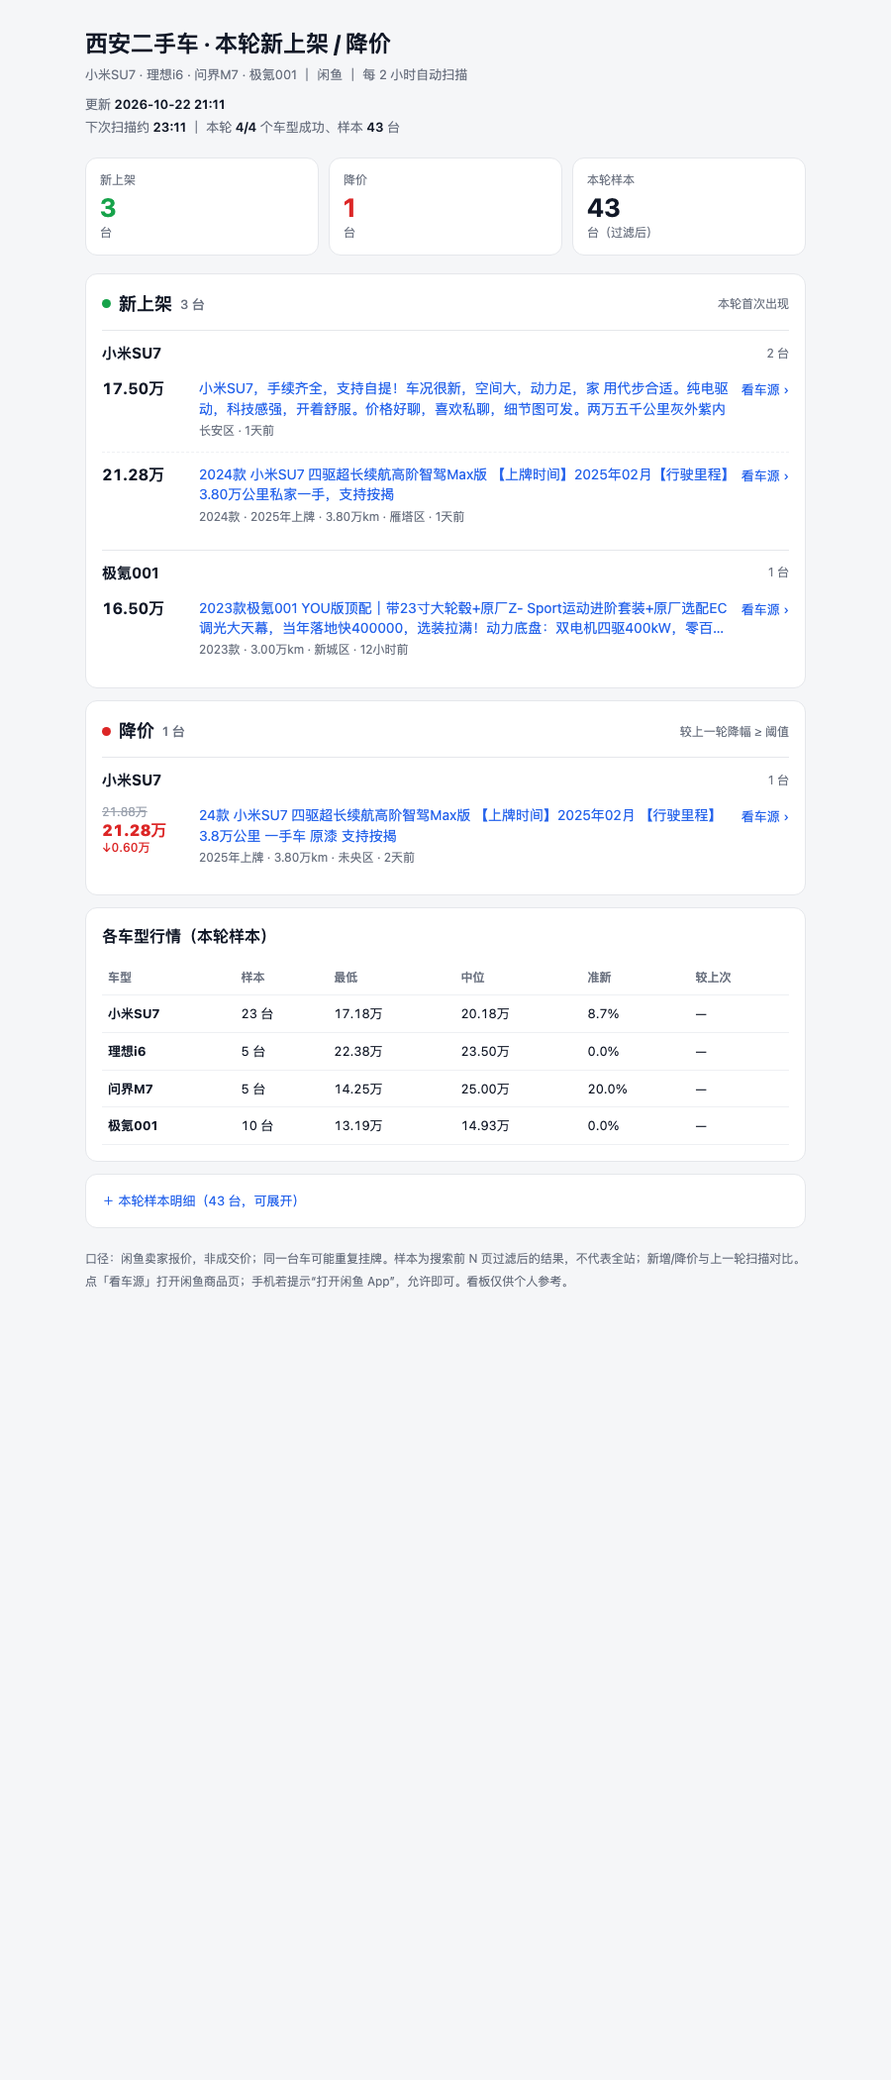
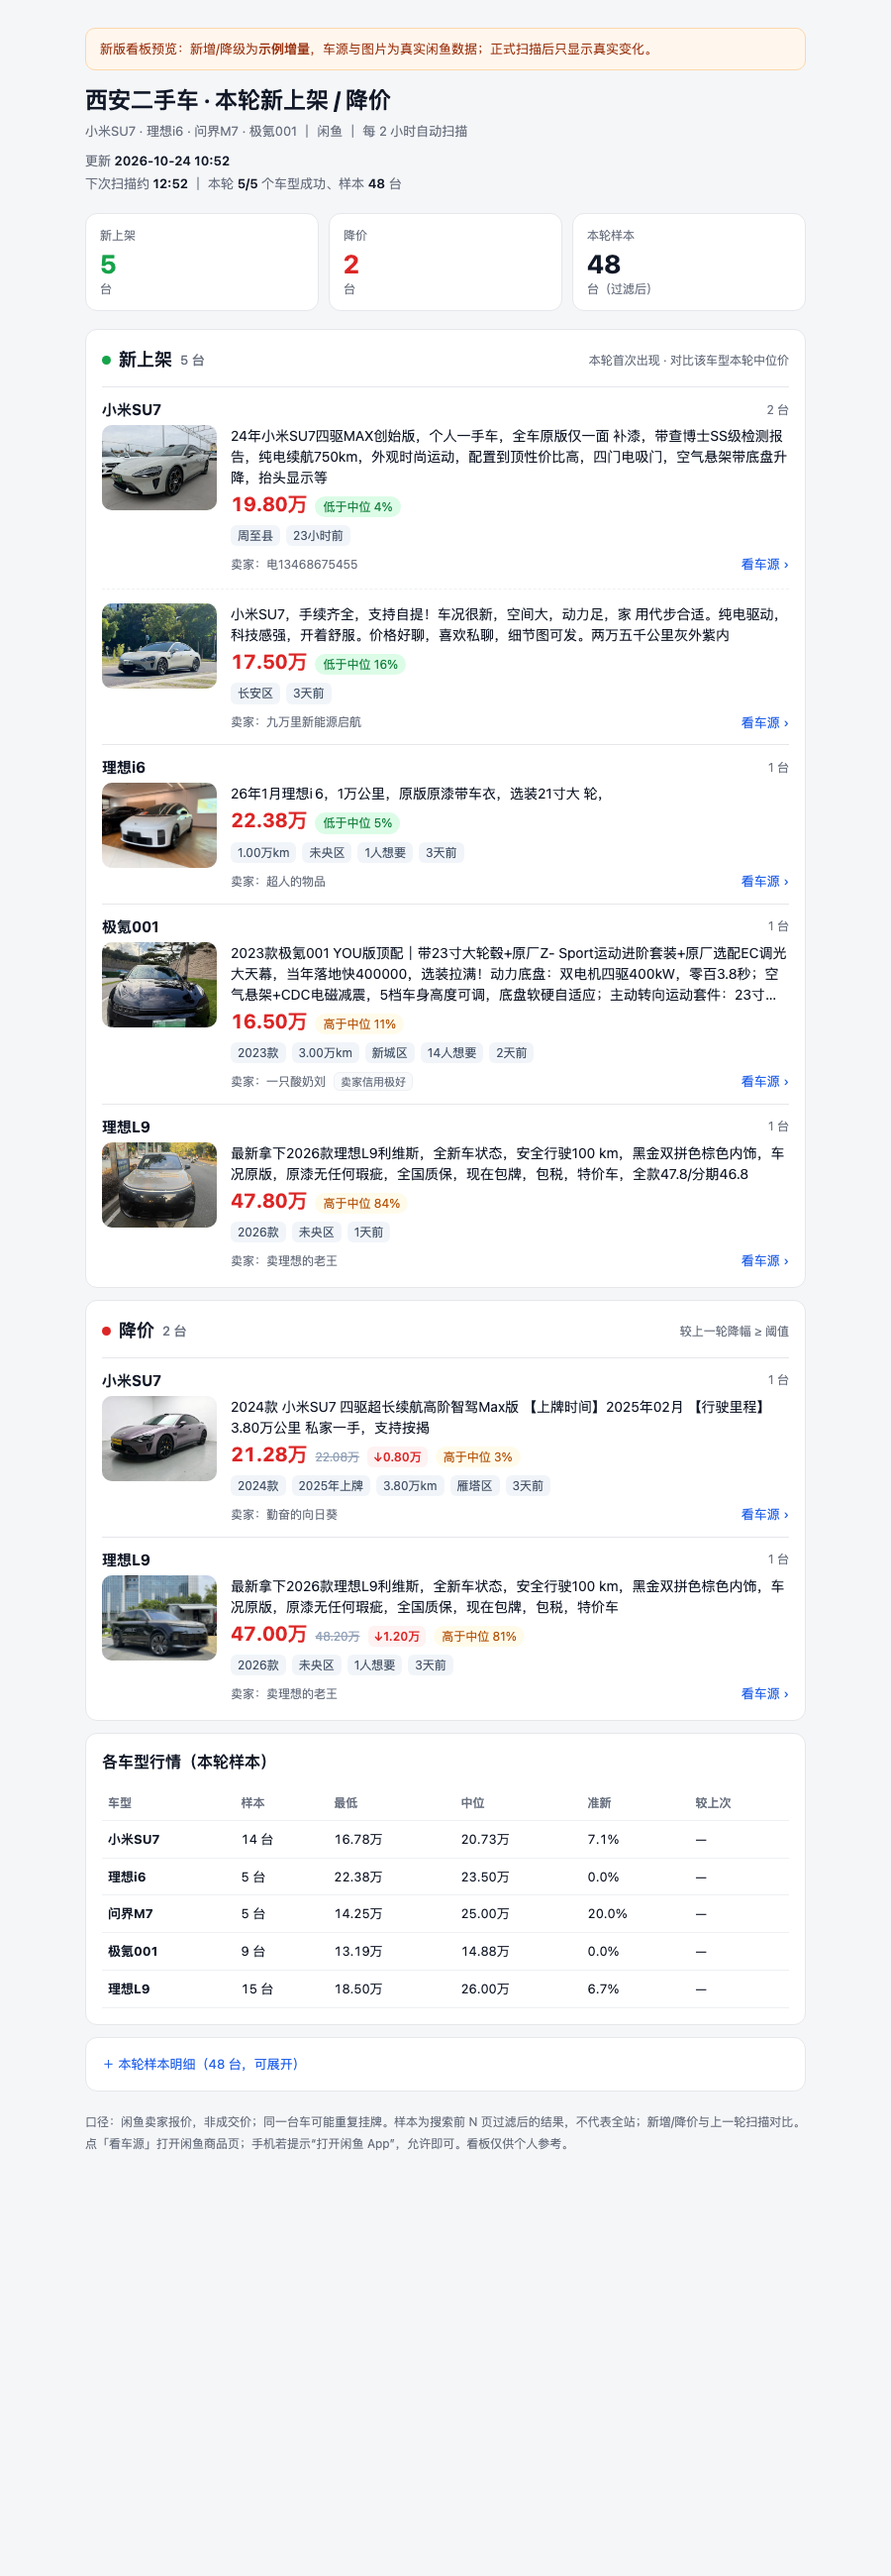
feat: richer vehicle cards + stable dashboard link options (v0.4.0)
- 车源卡片：缩略图、价格与样本中位对比（低于绿色/高于琥珀）、年款/上牌/里程/地区/想要数/发布时间、卖家、标签，点标题或看车源跳闲鱼
- 图片统一转 https，修复看板走 HTTPS 时混合内容导致图片不显示
- 新增 dashboard.publicUrl + tunnelToken：支持 Cloudflare 命名隧道固定地址，或 Tailscale 私有固定地址；未配置时仍用 quick tunnel
- 机器人「看板」区分固定/临时地址
- 测试 23 项离线通过；版本 0.4.0

diff --git a/src/html-report.js b/src/html-report.js
@@ -72,39 +72,52 @@ function relTime(ms, nowMs) {
   return `${Math.round(diff / day)}天前`
 }
 
-function listingMeta(l, now) {
-  return [
+function priceCompare(price, median) {
+  if (!Number.isFinite(Number(price)) || !Number.isFinite(Number(median)) || !median) return ''
+  const diff = (Number(price) - Number(median)) / Number(median)
+  const pct = Math.abs(diff * 100)
+  if (pct < 2) return '<span class="cmp">≈ 样本中位</span>'
+  return `<span class="cmp ${diff < 0 ? 'good' : 'high'}">${diff < 0 ? '低于' : '高于'}中位 ${pct.toFixed(0)}%</span>`
+}
+
+/** 一条车源卡片：缩略图 + 标题 + 价格/对比 + 关键参数 + 卖家/标签 + 跳转。 */
+function carCard({ listing, now, median, kind, oldPrice }) {
+  const l = listing ?? {}
+  const url = safeUrl(l.detailUrl)
+  const price = Number(l.priceYuan)
+  const cut = kind === 'drop' && Number.isFinite(Number(oldPrice)) && Number.isFinite(price)
+    ? Number(oldPrice) - price
+    : null
+  const chips = [
     l.modelYear ? `${l.modelYear}款` : null,
     l.licenseYear ? `${l.licenseYear}年上牌` : null,
     kmText(l.mileageKm) || null,
     l.area || null,
+    l.wantCount != null ? `${l.wantCount}人想要` : null,
     relTime(l.publishTime, now) || null,
-  ].filter(Boolean).join(' · ')
-}
-
-function newItem(l, now) {
-  return `<li class="item">
-    <div class="item-price">${wan(l.priceYuan)}</div>
-    <div class="item-main">
-      <a class="item-title" href="${safeUrl(l.detailUrl)}" target="_blank" rel="noopener">${esc(l.title)}</a>
-      <div class="item-meta">${esc(listingMeta(l, now))}</div>
+  ].filter(Boolean)
+  const tags = (l.tags ?? [])
+    .filter((t) => !/(想要|小时前|天前|分钟前|上新|发布)/.test(String(t)))
+    .slice(0, 4)
+  const thumb = l.pictureUrl
+    ? `<a class="thumb" href="${url}" target="_blank" rel="noopener"><img src="${esc(l.pictureUrl)}" loading="lazy" referrerpolicy="no-referrer" alt="" onerror="this.parentNode.classList.add('noimg')"></a>`
+    : '<div class="thumb noimg"></div>'
+  return `<li class="car">
+    ${thumb}
+    <div class="car-body">
+      <a class="car-title" href="${url}" target="_blank" rel="noopener" title="${esc(l.title)}">${esc(l.title)}</a>
+      <div class="car-price">
+        <b>${wan(price)}</b>
+        ${kind === 'drop' && cut ? `<span class="old">${wan(oldPrice)}</span><span class="cut">↓${wan(cut)}</span>` : ''}
+        ${priceCompare(price, median)}
+      </div>
+      <div class="chips">${chips.map((c) => `<span>${esc(c)}</span>`).join('')}</div>
+      <div class="car-foot">
+        <span class="seller">${l.seller ? `卖家：${esc(l.seller)}` : ''}</span>
+        <span class="tags">${tags.map((t) => `<span class="tag">${esc(t)}</span>`).join('')}</span>
+        <a class="car-link" href="${url}" target="_blank" rel="noopener">看车源 ›</a>
+      </div>
     </div>
-    <a class="item-link" href="${safeUrl(l.detailUrl)}" target="_blank" rel="noopener">看车源 ›</a>
-  </li>`
-}
-
-function dropItem(d, now) {
-  const l = d.listing ?? {}
-  const oldPrice = Number(d.oldPrice)
-  const newPrice = Number(d.newPrice ?? l.priceYuan)
-  const cut = Number.isFinite(oldPrice) && Number.isFinite(newPrice) ? oldPrice - newPrice : null
-  return `<li class="item">
-    <div class="item-price"><span class="old">${wan(oldPrice)}</span><b class="cut">${wan(newPrice)}</b>${cut ? `<div class="cut-tag">↓${wan(cut)}</div>` : ''}</div>
-    <div class="item-main">
-      <a class="item-title" href="${safeUrl(l.detailUrl)}" target="_blank" rel="noopener">${esc(l.title)}</a>
-      <div class="item-meta">${esc(listingMeta(l, now))}</div>
-    </div>
-    <a class="item-link" href="${safeUrl(l.detailUrl)}" target="_blank" rel="noopener">看车源 ›</a>
   </li>`
 }
 
@@ -117,19 +130,25 @@ function modelGroup(title, items) {
 
 function newSection(targets, now) {
   const groups = targets
-    .map((t) => ({ t, items: (t.newListings ?? []).map((l) => newItem(l, now)) }))
+    .map((t) => ({
+      t,
+      items: (t.newListings ?? []).map((l) => carCard({ listing: l, now, median: t.price?.median, kind: 'new' })),
+    }))
     .filter((g) => g.items.length)
   const total = groups.reduce((n, g) => n + g.items.length, 0)
   if (!total) return ''
   return `<section class="card">
-    <div class="section-head"><h2><span class="dot green"></span>新上架 <em>${total} 台</em></h2><span class="hint">本轮首次出现</span></div>
+    <div class="section-head"><h2><span class="dot green"></span>新上架 <em>${total} 台</em></h2><span class="hint">本轮首次出现 · 对比该车型本轮中位价</span></div>
     ${groups.map((g) => modelGroup(g.t.seriesName, g.items)).join('')}
   </section>`
 }
 
 function dropSection(targets, now) {
   const groups = targets
-    .map((t) => ({ t, items: (t.priceDrops ?? []).map((d) => dropItem(d, now)) }))
+    .map((t) => ({
+      t,
+      items: (t.priceDrops ?? []).map((d) => carCard({ listing: d.listing, now, median: t.price?.median, kind: 'drop', oldPrice: d.oldPrice })),
+    }))
     .filter((g) => g.items.length)
   const total = groups.reduce((n, g) => n + g.items.length, 0)
   if (!total) return ''
@@ -229,15 +248,29 @@ a:hover{text-decoration:underline}
 .group-head .model{font-weight:700;font-size:15px}
 .group-head .group-count{color:var(--muted);font-size:12px}
 .items{list-style:none;margin:0;padding:0}
-.item{display:grid;grid-template-columns:86px 1fr auto;gap:12px;align-items:start;padding:12px 0;border-top:1px dashed #eef0f3}
-.item:first-child{border-top:0}
-.item-price{font-size:16px;font-weight:700;line-height:1.35;font-variant-numeric:tabular-nums;white-space:nowrap}
-.item-price .old{display:block;color:#9ca3af;font-size:12px;font-weight:400;text-decoration:line-through;line-height:1.2}
-.item-price .cut{color:var(--red);display:block}
-.cut-tag{color:var(--red);font-size:12px;font-weight:500;line-height:1.2}
-.item-title{word-break:break-word;display:-webkit-box;-webkit-line-clamp:2;-webkit-box-orient:vertical;overflow:hidden;font-size:14px;line-height:1.45}
-.item-meta{color:var(--muted);font-size:12px;margin-top:2px}
-.item-link{color:var(--blue);font-size:13px;white-space:nowrap;padding-top:1px}
+.items{list-style:none;margin:0;padding:0;display:flex;flex-direction:column;gap:14px}
+.car{display:grid;grid-template-columns:116px minmax(0,1fr);gap:14px;padding-top:14px;border-top:1px dashed #eef0f3}
+.car:first-child{border-top:0;padding-top:2px}
+.thumb{display:block;width:116px;height:86px;border-radius:10px;overflow:hidden;background:#f1f5f9;position:relative;flex:none}
+.thumb img{width:100%;height:100%;object-fit:cover;display:block}
+.thumb.noimg{background:linear-gradient(135deg,#eef2ff,#f8fafc)}
+.thumb.noimg:after{content:"闲鱼车源";position:absolute;inset:0;display:flex;align-items:center;justify-content:center;color:#94a3b8;font-size:12px}
+.car-body{min-width:0}
+.car-title{display:-webkit-box;-webkit-line-clamp:3;-webkit-box-orient:vertical;overflow:hidden;font-size:14px;line-height:1.5;color:var(--ink);word-break:break-word}
+.car-price{display:flex;align-items:baseline;gap:8px;margin-top:5px;flex-wrap:wrap}
+.car-price b{font-size:20px;color:var(--red);font-variant-numeric:tabular-nums;line-height:1.2}
+.car-price .old{color:#94a3b8;text-decoration:line-through;font-size:12px}
+.car-price .cut{background:#fef2f2;color:var(--red);border-radius:6px;padding:1px 6px;font-size:12px;font-weight:600}
+.cmp{font-size:12px;color:#15803d;background:#f0fdf4;border-radius:999px;padding:1px 8px}
+.cmp.good{color:#15803d;background:#dcfce7}
+.cmp.high{color:#b45309;background:#fffbeb}
+.chips{display:flex;flex-wrap:wrap;gap:6px;margin-top:8px}
+.chips span{font-size:12px;background:#f1f5f9;color:#475569;border-radius:6px;padding:1px 7px;white-space:nowrap}
+.car-foot{display:flex;align-items:center;gap:8px;margin-top:8px;flex-wrap:wrap}
+.seller{font-size:12px;color:var(--muted)}
+.tags{display:flex;gap:4px;flex-wrap:wrap}
+.tag{display:inline-block;font-size:11px;color:var(--muted);background:#f8fafc;border:1px solid #eef0f3;border-radius:6px;padding:0 6px;white-space:nowrap}
+.car-link{margin-left:auto;font-size:13px;color:var(--blue);white-space:nowrap}
 .empty{text-align:center;padding:28px 18px}
 .empty-icon{width:40px;height:40px;line-height:40px;border-radius:50%;background:#f0fdf4;color:var(--green);font-size:20px;margin:0 auto 10px}
 .empty h2{margin:0 0 6px;font-size:17px}
@@ -267,10 +300,12 @@ td.num{white-space:nowrap;font-variant-numeric:tabular-nums}
   .kpis{gap:8px}
   .kpi{padding:10px 12px}
   .kpi .v{font-size:22px}
-  .item{grid-template-columns:minmax(0,78px) minmax(0,1fr);gap:10px}
+  .car{grid-template-columns:92px minmax(0,1fr);gap:10px}
+  .thumb{width:92px;height:70px}
+  .car-price b{font-size:18px}
+  .car-link{margin-left:0;padding-top:2px}
   .stats{font-size:12px}
   .stats th,.stats td{padding:7px 4px}
-  .item-link{grid-column:2;padding-top:2px}
   .card{padding:14px}
 }
 @media print{body{background:#fff}.details{display:none}}

diff --git a/index.js b/index.js
@@ -15,7 +15,7 @@ import { createCommandHandler } from './src/commands.js'
 import { createLlmAnalyzer } from './src/llm-analyzer.js'
 import { REPORT_NAME } from './src/html-report.js'
 import { dashboardUrls, startDashboardServer } from './src/dashboard-server.js'
-import { startQuickTunnel } from './src/dashboard-tunnel.js'
+import { startNamedTunnel, startQuickTunnel } from './src/dashboard-tunnel.js'
 
 export const name = 'vehicle-watch'
 export const inject = ['tools', 'timer']
@@ -58,6 +58,8 @@ export const Config = z.object({
   dashboard: z.object({
     enabled: z.boolean().default(true),
     public: z.boolean().default(true),   // 启动 Cloudflare 快速隧道，户外手机可看
+    publicUrl: z.string().default(''),   // 固定公网地址（命名隧道/反向代理/Tailscale 时填写）
+    tunnelToken: z.string().default(''), // Cloudflare 命名隧道 token（可让地址固定）
     tunnelCommand: z.string().default(''), // cloudflared 路径；空 = 自动查找
     port: z.natural().default(47800),
     host: z.string().default(''),        // 空 = 0.0.0.0（同一局域网可访问）
@@ -154,37 +156,42 @@ export function apply(ctx, config) {
       }
 
       const urls = dashboardUrls(started.port)
+      const stableUrl = String(config.dashboard?.publicUrl || '').trim()
+      const tunnelToken = String(config.dashboard?.tunnelToken || '').trim()
       let tunnel = null
       let disposed = false
       const publish = () => service.setDashboard({
         enabled: true,
         port: started.port,
-        url: tunnel?.url || urls.lan || urls.local,
-        publicUrl: tunnel?.url ?? null,
-        publicPending: config.dashboard?.public !== false && !tunnel,
-        urls: { ...urls, public: tunnel?.url ?? null },
+        url: stableUrl || tunnel?.url || urls.lan || urls.local,
+        publicUrl: stableUrl || tunnel?.url || null,
+        stable: Boolean(stableUrl),
+        publicPending: !stableUrl && config.dashboard?.public !== false && !tunnel,
+        urls: { ...urls, public: stableUrl || tunnel?.url || null },
       })
       publish()
-      log.info('dashboard ready: %s (phone: %s)', urls.local, urls.lan || urls.local)
+      log.info('dashboard ready: %s (phone: %s)', urls.local, stableUrl || urls.lan || urls.local)
 
       // 公网隧道在后台启动，不阻塞插件激活；退出时回退到局域网并最多重试 3 次
       let tunnelAttempts = 0
       let retryTimer = null
       const startTunnel = async () => {
         if (disposed || config.dashboard?.public === false) return
+        if (stableUrl && !tunnelToken) return // 固定地址由用户自己的命名隧道/反向代理/Tailscale 提供，插件不再另起隧道
         try {
-          const t = await startQuickTunnel({ port: started.port, command: config.dashboard?.tunnelCommand || '', log })
+          const t = tunnelToken
+            ? await startNamedTunnel({ token: tunnelToken, command: config.dashboard?.tunnelCommand || '', log })
+            : await startQuickTunnel({ port: started.port, command: config.dashboard?.tunnelCommand || '', log })
           if (disposed) { t.close().catch(() => {}); return }
           tunnel = t
-          urls.public = t.url
+          if (t.url) urls.public = t.url
           tunnelAttempts = 0
           publish()
-          log.info('dashboard public: %s', t.url)
+          log.info('dashboard public: %s', stableUrl || t.url || '(命名隧道)')
           t.onExit?.((code) => {
             if (disposed) return
             log.warn('public tunnel exited (code %s)，5s 后重试', code)
             tunnel = null
-            urls.public = null
             publish()
             if (tunnelAttempts < 3) {
               tunnelAttempts += 1
@@ -199,7 +206,11 @@ export function apply(ctx, config) {
           }
         }
       }
-      startTunnel()
+      if (stableUrl && !tunnelToken) {
+        log.info('dashboard stable url configured: %s（不再启动临时隧道）', stableUrl)
+      } else {
+        startTunnel()
+      }
 
       return () => {
         disposed = true

diff --git a/src/dashboard-tunnel.js b/src/dashboard-tunnel.js
@@ -135,3 +135,74 @@ export async function startQuickTunnel({ port, command = '', log = console } = {
   }
   throw lastError ?? new Error('未找到 cloudflared（可 brew install cloudflared，或在 dashboard.tunnelCommand 指定路径）')
 }
+
+/**
+ * 启动 Cloudflare 命名隧道（稳定公网地址）：cloudflared tunnel run，token 从环境变量传入
+ * （避免出现在进程参数里）。启动成功以日志出现 “Registered tunnel connection” 为准。
+ * 公网地址由调用方通过 dashboard.publicUrl 提供。
+ */
+export async function startNamedTunnel({ token, command = '', log = console } = {}) {
+  if (!token) throw new Error('缺少 dashboard.tunnelToken')
+  let lastError = null
+  for (const bin of binaryCandidates(command)) {
+    if (bin !== 'cloudflared' && !isExecutable(bin)) continue
+    try {
+      const { child, onExit } = await new Promise((resolve, reject) => {
+        const proc = spawn(bin, ['tunnel', '--no-autoupdate', 'run'], {
+          stdio: ['ignore', 'pipe', 'pipe'],
+          env: { ...process.env, NO_COLOR: '1', TUNNEL_TOKEN: token },
+        })
+        let buffer = ''
+        let done = false
+        const timer = setTimeout(() => {
+          if (done) return
+          done = true
+          try { proc.kill('SIGTERM') } catch { /* ignore */ }
+          reject(new Error('命名隧道启动超时（60s 内未注册成功）'))
+        }, 60_000)
+        const onData = (chunk) => {
+          if (done) return
+          buffer += chunk.toString()
+          if (/Registered tunnel connection|Connection .*registered/i.test(buffer)) {
+            done = true
+            clearTimeout(timer)
+            let exitHook = null
+            proc.on('exit', (code) => { try { exitHook?.(code) } catch { /* ignore */ } })
+            resolve({ child: proc, onExit(cb) { exitHook = cb } })
+          }
+        }
+        proc.stdout?.on('data', onData)
+        proc.stderr?.on('data', onData)
+        proc.once('error', (err) => {
+          if (done) return
+          done = true
+          clearTimeout(timer)
+          reject(err)
+        })
+        proc.once('exit', (code) => {
+          if (done) return
+          done = true
+          clearTimeout(timer)
+          reject(new Error(`cloudflared 退出（code ${code}）`))
+        })
+      })
+      log.info?.('named tunnel ready (%s)', bin)
+      return {
+        url: null,
+        bin,
+        onExit,
+        close: () => new Promise((resolve) => {
+          let settled = false
+          const finish = () => { if (!settled) { settled = true; resolve() } }
+          child.once('exit', finish)
+          try { child.kill('SIGTERM') } catch { /* ignore */ }
+          setTimeout(() => { try { child.kill('SIGKILL') } catch { /* ignore */ } finish() }, 3000)
+        }),
+      }
+    } catch (err) {
+      lastError = err
+      log.warn?.('named tunnel candidate failed (%s): %s', bin, err.message)
+    }
+  }
+  throw lastError ?? new Error('命名隧道启动失败（检查 tunnelToken / cloudflared）')
+}

diff --git a/src/commands.js b/src/commands.js
@@ -472,7 +472,8 @@ ${question}`, card: null }
       const d = st.dashboard
       if (d?.url) {
         const lines = ['看板（本轮新上架 / 降价，手机可直接看）：', d.url]
-        if (d.publicUrl) lines.push('公网临时地址，每轮扫描后自动更新；若失效，重发「看板」获取新地址。')
+        if (d.stable) lines.push('公网固定地址（可长期收藏），每轮扫描后自动更新。')
+        else if (d.publicUrl) lines.push('公网临时地址，每轮扫描后自动更新；若失效，重发「看板」获取新地址。')
         else if (d.publicPending) lines.push('公网隧道启动中（约 10–20 秒），稍后重发「看板」即可拿到公网地址。')
         else lines.push('当前是局域网地址：手机需与 Mac 同一 Wi-Fi；公网隧道未启动（检查 cloudflared 或 dashboard.public）。')
         lines.push('注意：闲鱼商品页在手机上可能提示“打开闲鱼 App”，点允许即可。')

diff --git a/src/xianyu.js b/src/xianyu.js
@@ -124,6 +124,11 @@ export function parseXianyuCard(card) {
     publishTime,
     publishAt: publishTime ? new Date(publishTime).toISOString() : null,
     seller: String(ex.userNickName ?? '').trim(),
+    pictureUrl: (() => {
+      const pic = String(ex.picUrl ?? ex.pictureUrl ?? '').trim()
+      if (!pic) return null
+      return pic.replace(/^http:\/\//i, 'https://')
+    })(),
     categoryId: String(args.cCatId ?? args.catId ?? ''),
     wantCount: parseWant(tags),
     tags,
